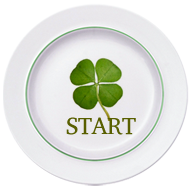
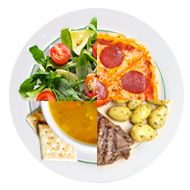
lucru de la flo

diff --git a/media/css/base.css b/media/css/base.css
@@ -5,6 +5,8 @@
 #header {
 	background: url("../images/template/baratop.jpg") repeat-x;
 	height:50px;
+	position: absolute;
+	z-index: 100;
 }
 
 #header_content {
@@ -146,7 +148,7 @@ body {
 	background: url("../images/template/baraalba.png") no-repeat;
 	width: 1060px;
 	height: 220px;
-	margin:30px auto 0;
+	margin:111px auto 0;
 	position: relative;
 }
 
@@ -246,7 +248,7 @@ body {
 	clear:both;
 	position: relative;
 	margin: 0px 0px 0px 25px;
-	height: 420px;
+	height: 419px;
 }
 
 #topcontent #baraalba .vezitoate a,
@@ -279,6 +281,7 @@ body {
 #primapagina {
 	background: url("../images/template/meniubg.png") no-repeat;
 	width: 625px;
+	margin-top: 12px;
 }
 
 
@@ -290,7 +293,7 @@ body {
 	background: url("../images/template/tabla.png") no-repeat;
 	height: 275px;
 	width: 510px;
-	margin-top: 23px;
+	margin-top: 4px;
 	position: relative;
 }
 #tabla .meniulzilei {
@@ -301,33 +304,34 @@ body {
 }
 
 #tabla #continutmeniu {
-	font-size: 25px;
+	font-size: 18px;
 	color:#fff;
-	line-height:24px;
-	margin: 10px 0px 0px 30px;
+	line-height:18px;
+	margin: -27px 0px 0px 30px;
 	width: 250px;
+	height: 140px;
 	float: left;
 }
 
 #tabla #continutmeniu .restaurant {
-	font-size: 23px;
+	font-size: 22px;
 	line-height: 30px;
 	color: #e2c727;
 }
 
 #tabla #pret {
 	font-size: 59px;
-	color:#fff;
-	float: right;
-	margin: 0px 60px 0px 5px;
-	line-height: 70px;
+	color:#E2C727;
+    float: left;
+    font-size: 59px;
+    line-height: 39px;
+    margin: 5px 0px 0 0;
 }
 
 #tabla #comanda {
-	clear: both;
-	float: right;
-	margin: -33px 68px 0px 5px;
-	font-size: 18px;	
+    float: left;
+    font-size: 18px;
+    margin: 0 0 0 5px;
 }
 #tabla #comanda a {
 	color:#fff;
@@ -338,7 +342,7 @@ body {
 	bottom: 24px;
 	left: 30px;
 	color:#fff;
-	font-size: 20px;
+	font-size: 18px;
 	line-height: 20px;
 }
 
@@ -403,7 +407,7 @@ body {
 	background: url("../images/template/bgroata.png") no-repeat;
 	height: 300px;
 	width: 460px;
-	margin-top: 23px;
+	margin-top: -17px;
 	position: relative;
 	margin-bottom: 10px;
 	float: right;
@@ -420,12 +424,12 @@ body {
 }
 #roata .text {
 	color: #252d0c;
-    line-height: 24px;
-    margin: 10px 0 0 20px;
-	font-size: 30px;
+    line-height: 22px;
+    margin: 10px 0 2px 20px;
+	font-size: 24px;
 }
 #roata .textmic {
-	font-size: 18px;
+	font-size: 16px;
 }
 
 #roata .startroata {
@@ -477,6 +481,14 @@ body {
 	margin:0px 10px 0px 0px;
 }
 
+#roata .descmeniu {
+	color: #000;
+    display: block;
+    float: left;
+    font-size: 18px;
+    line-height: 20px;
+    margin: 66px 0 0 8px;
+}
 
 /*                            CONTENT AREA generic                                       */ 
 
@@ -484,6 +496,8 @@ body {
 #content .content_area {
 	width: 720px;
 	background: #fff;
+	margin-bottom: 40px;
+    padding-bottom: 15px;
 }
 
 
@@ -494,6 +508,7 @@ body {
 #paginarestaurant {
   	font-family: times New Roman;
 	padding: 10px 0px 0px 15px;	
+	margin-right: 10px;
 }
 
 #paginarestaurant .title {
@@ -553,6 +568,7 @@ body {
 	font-weight:bold;
 	text-decoration: none;
  	line-height: 16px;
+	float: left;
 }
 
 #paginarestaurant ul li .description{
@@ -560,8 +576,17 @@ body {
 	font-size: 12px;
 	color: #000;
 	float: left;
- 	width: 450px;
+ 	width: 420px;
 }
+
+#paginarestaurant #searchbox {
+	font-family: Arial,Helvetica,sans-serif;
+}
+
+#paginarestaurant #searchbox p{
+	margin: 0px 0px 0px 10px;
+}
+
 
 #paginarestaurant .description2 {
 	margin-top: 2px;
@@ -569,7 +594,7 @@ body {
 	font-size: 12px;
 	color: #000;
 	float: left;
- 	width: 450px;
+ 	width: 500px;
 	line-height: 14px;
     margin-bottom: 10px;
 }
@@ -624,6 +649,7 @@ body {
 }
 #paginarestaurant .name2 {
     position: relative;
+	width: 500px;
 }
 #paginarestaurant .name2 a{
     font-size: 20px;
@@ -682,7 +708,6 @@ body {
 #paginarestaurant .btnviziteaza_platinum, #paginarestaurant .btnviziteaza_gold {
     font-weight: normal;
     display: block;
-    float: right;
     background: url("../images/template/btncmd.png") no-repeat;
     width: 130px;
     height: 25px;
@@ -690,13 +715,19 @@ body {
     color: #fff;
     font-size: 12px;
     font-style: normal;
-    margin: -12px 10px 0 4px;	
+    margin: 0px 10px 0 4px;	
     font-family: Arial, Helvetica, sans-serif;
 }
+
+#paginarestaurant .btnv_margin {
+    float: right;
+	margin-top:-12px;
+}
+
+
 #paginarestaurant .btnviziteaza_silver, #paginarestaurant .btnviziteaza_ {
     font-weight: normal;
     display: block;
-    float: right;
     background: url("../images/template/btngri.png") no-repeat;
     width: 130px;
     height: 25px;
@@ -704,7 +735,7 @@ body {
     color: #fff;
     font-size: 12px;
     font-style: normal;
-    margin: -12px 0px 0 4px;	
+    margin: 0px 0px 0 4px;	
     font-family: Arial, Helvetica, sans-serif;
 }
 #paginarestaurant ul li .price,
@@ -713,9 +744,6 @@ body {
     font-size: 18px;
     font-style: italic;
     color: #7e1c0a;
-    position:absolute;
-    right: 0px; 
-    top: 8px;
     font-weight: bold;
 }
 #paginarestaurant ul li .btncomanda,
@@ -1068,7 +1096,7 @@ body {
     background: url("../images/template/sidebarmeniu.png") no-repeat;
     height: 450px;
     width: 365px;
-    margin-left: -30px;
+    margin-left: 50px;
 }
 
 #sidebar #boxmeniusidebar {
@@ -1114,7 +1142,7 @@ body {
     background: url("../images/template/sidebar2.png") no-repeat;
     height: 440px;
     width: 330px;
-    margin-left: -30px;
+    margin-left: 15px;
     color: #7f392a;
     position: relative;
 }

diff --git a/templates/menu/item_list.html b/templates/menu/item_list.html
@@ -21,8 +21,9 @@
 
 {% block content %}
 <div class="content_area">
+  <div id="paginarestaurant">
   <div class="title"><h1 class="light_green">{% trans 'Search' %}</h1></div>
-  <form action="" method="get">
+  <form action="" method="get" id="searchbox">
     <p><label for="id_q">Search:</label> <input type="text" name="q" id="id_q" value="{{ query }}" />
     <br>
     <a id="show-advanced" href="#">{% trans 'Show/Hide advanced search' %}</a>
@@ -37,12 +38,12 @@
 
 
   
-  <div id="paginarestaurant">
            <ul>   
 
 	{% for obj in filter %}
   <li class=" item pozrel">
     <div class="name">{{ obj.name_def }}</div>
+    <br/>
     <div class="description">{{ obj.description_def }}</div>
     <div class="price">
       {{ obj.get_price }} {% trans 'lei' %}

diff --git a/templates/restaurant/index.html b/templates/restaurant/index.html
@@ -96,17 +96,21 @@
     <br/>
     <div class="text">
       Nu stii ce vrei sa mananci azi? <br/>
-      <span class="textmic">Bine ai venit la Roata Norocului ! Click pe butonul START</span>
+      <span class="textmic">Bine ai venit la Roata Norocului ! Click pe farfurie pentru START.</span>
     </div>
     <div class="start">
       <a href="{% url wheel:fortune %}" class="startroata" title=""></a>
     </div>
+    <div class="descmeniu">
+    	Pui in Rata<br/>
+        Supa de Rata de Pui
+        </div>
     <div class="rezultat">
       <div class="rez1">
-        ?
+        &nbsp;
       </div>
       <div class="rez2">
-        ?
+        &nbsp;
       </div>
       <div class="rezpret">
         <span class="rezultatpret">?</span> Lei

diff --git a/templates/restaurant/unit_list.html b/templates/restaurant/unit_list.html
@@ -28,7 +28,7 @@
                   <div class="rating_bar"><div style="width:{{ unit.get_avg_quality }}%"></div></div>
 		<div class="rating_bar"><div style="width:{{ unit.get_avg_speed }}%"></div></div>
 	      </div>
-              <a href="{% url restaurant:detail unit.id %}" class="btnviziteaza_{{ unit.get_package.get_class }}">Viziteaza restaurantul</a>
+              <div class="btnv_margin"><a href="{% url restaurant:detail unit.id %}" class="btnviziteaza_{{ unit.get_package.get_class }}">Viziteaza restaurantul</a></div>
               <div class="clear"></div>
 	    </div>      
 	    {% endfor %}

diff --git a/templates/restaurant/unit_detail.html b/templates/restaurant/unit_detail.html
@@ -160,6 +160,7 @@ function addCartName() {
               {% if item.active %}
               <li class=" item {% if item.is_new %}new-item{% endif %} pozrel">
                 <div class="name">{{ item.name_def }}</div>
+                <br/>
                 <div class="description">{{ item.description_def }}</div>
                 <div class="price">
                   {{ item.get_price }} {% trans 'lei' %}

diff --git a/templates/menu/daily_menu.html b/templates/menu/daily_menu.html
@@ -1,15 +1,16 @@
 {% load i18n %}
 {% if motd %}
 <div class="meniulzilei">
-  {{motd.name}}
+	{% trans 'Meniul Zilei' %}
 </div>
 <div id="continutmeniu">
   {#{motd.description|safe}#}
-  <br/>
   <span class="restaurant">{{motd.unit}}</span>
+  <br/>
+ {{motd.name}}
 </div>
 <div id="pret">
-  {{motd.price}} Lei
+  {{motd.price}} lei
 </div>
 {% if user.is_authenticated %}
 <div id="comanda">
